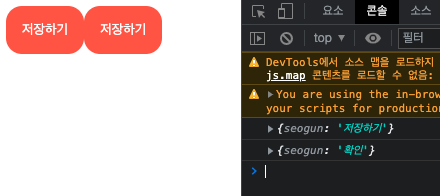
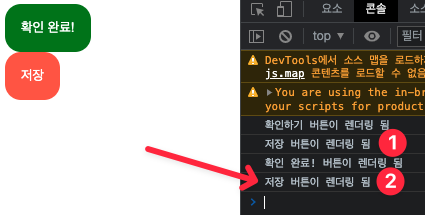
feat: 04) #1 Memo

diff --git a/index.html b/index.html
@@ -20,29 +20,37 @@
     <!--ReactJS 구현부-->
     <script type="text/babel">
         //컴포넌트 만들기
-        //Btn 컴포넌트의 인자값으로 object 속성을 넣어주면 컴포넌트로 사용 가능. (props.someProps === somepProps)
-        function Btn({ someProps, istrue }) {
-            console.log(someProps, istrue);
-            return (
-                <button
-                    style={{
-                        backgroundColor: istrue ? 'green' : 'tomato',
-                        color: 'white',
-                        padding: '1rem',
-                        border: 'none',
-                        borderRadius: '1rem',
-                    }}
-                >
-                    {someProps}
-                </button>
-            );
-        }
-
-        function App() {
+        const Btn = React.memo(({ text, istrue, changedValue }) => {
+            console.log(text, '버튼이 렌더링 됨');
             return (
                 <div>
-                    <Btn someProps="확인 버튼" istrue={true} />
-                    <Btn someProps="저장" istrue={false} />
+                    <button
+                        onClick={changedValue}
+                        style={{
+                            backgroundColor: istrue ? 'green' : 'tomato',
+                            color: 'white',
+                            padding: '1rem',
+                            border: 'none',
+                            borderRadius: '1rem',
+                        }}
+                    >
+                        {text}
+                    </button>
+                </div>
+            );
+        });
+
+        function App() {
+            const [value, setValue] = React.useState('확인하기');
+            const changedValue = () => {
+                setValue('확인 완료!');
+            };
+            return (
+                <div>
+                    {/*컴포넌트안에서의 changedValue은 이벤트리스너가 아니라, 속성일 뿐이다.
+                        때문에 컴포넌트 안에 Style={{}}을 줄 수 없다.*/}
+                    <Btn text={value} istrue={true} changedValue={changedValue} />
+                    <Btn text="저장" istrue={false} />
                 </div>
             );
         }

diff --git a/props.md b/props.md
@@ -1,56 +1,34 @@
-컴포넌트의 매개변수로 props를 주면, 아래와 같이 컴포넌트에 사용 가능하다는 것이다.
+1. props에 function도 보낼 수 있음. 이것은 JSX로 html 태그 자체에 이벤트 리스너를 넣는것과는 전혀 다
+   른것임. 그저 이벤트를 실행시키는 함수가 프로퍼티로 들어간 것임. prop은 그냥 부모에서 자식으로 데
+   이터를 넘길 때 사용하는 argument의 역할이니까!
 
-![1](images/1.png)
+2. 부모의 상태를 바꾸는 함수를 만들었고, 부모 컴포넌트에서 그 함수를 prop으로 보내면 자식 컴포넌트에
+   서 그 함수가 실행된다.
 
-주의할점은 컴포넌트의 매개변수는 반드시 하나만 사용 가능하다는 것이다. 하지만 이 매개변수를 Object로
-만들면 여러개의 props를 받을 수 있다.
+3. 불필요한 re-render는 React.memo()로 관리할 수 있음부모 컴포넌트의 state를 변경하면 당연히 그 자식
+   컴포넌트들도 Re-render가 일어남. 불필요한 렌더링이 발생할 수도 있는데, 이 경우에는 React.memo()로
+   prop의 변경이 일어난 부분만 렌더링 시킬 수 있음. 아주 많은 자식 컴포넌트를 가지고 있는 부모 컴포
+   넌트일 때 사용하면 될듯. ![1](images/1.png)
 
-여기서 props는 object이므로 컴포넌트의 값을 주고 싶다면 x={false}와 같이 사용 가능하다.
+4. React.memo() 컴포넌트가 React.memo()로 wrapping 될 때, React는 컴포넌트를 렌더링하고 결과를 메모
+   이징(Memoizing)한다. 그리고 다음 렌더링이 일어날 때 props가 같다면, React는 메모이징(Memoizing)된
+   내용을 재사용한다.
 
-![2](images/2.png)
-
-```javascript
-const Btn = ({ someProps }) => {
-    return <button>{someProps}</button>;
-};
-
-function App() {
-    return (
-        <div>
-            <Btn someProps="확인 버튼" x={false} /> //해당 컴포넌트의 프로퍼티이름은 마음대로 정해줄
-            수 있다.
-            <Btn someProps="저장" y={7} />
-        </div>
-    );
-}
-```
-
-![3](images/3.png)
-
-여러개의 props를 만들어 넣어주면 삼항연산자등을 통해 아래와 같이 구문을 작성할 수 있다.
+5. React.memo React.memo는 고차 컴포넌트(Higher Order Component)입니다. 컴포넌트가 동일한 props로 동
+   일한 결과를 렌더링해낸다면, React.memo를 호출하고 결과를 메모이징(Memoizing)하도록 래핑하여 경우
+   에 따라 성능 향상을 누릴 수 있습니다. 즉, React는 컴포넌트를 렌더링하지 않고 마지막으로 렌더링된
+   결과를 재사용합니다.
 
 ```javascript
-const Btn = ({ someProps, istrue }) => {
-    return (
-        <button
-            style={{
-                backgroundColor: istrue ? 'green' : 'tomato',
-            }}
-        >
-            {someProps}
-        </button>
-    );
-};
+const MyComponent = React.memo(function MyComponent(props) {
+/* props를 사용하여 렌더링 */
+});
 
-function App() {
-    return (
-        <div>
-            <Btn someProps="확인 버튼" istrue={true} />
-            {/*해당 컴포넌트의 프로퍼티이름은 마음대로 정해줄수 있다.*/}
-            <Btn someProps="저장" istrue={false} />
-        </div>
-    );
-}
+
+//Btn이라는 함수의 매개변수 앞에 React.memo를 사용하면 랜더링이 필요한 곳에서만 사용 가능하다.
+const Btn = React.memo(({ text, istrue, changedValue }) => {
+      ....
+});
 ```
 
-![4](images/4.png)
+https://ko.reactjs.org/docs/react-api.html#reactmemo
